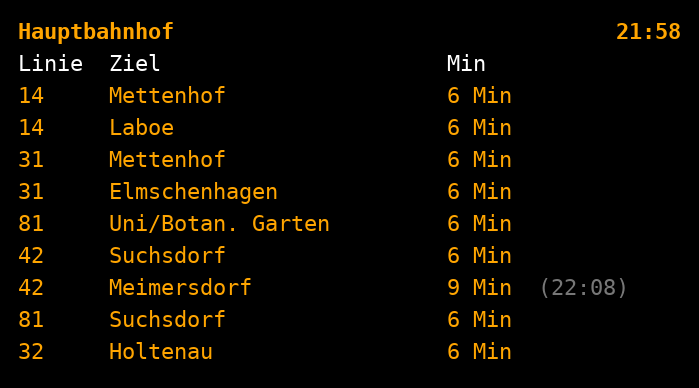
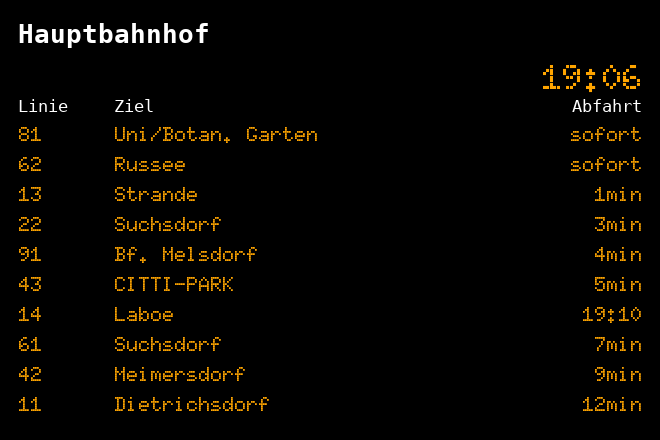
Doku aufgeraeumt: README strukturiert (Inhalt/Voraussetzungen/Installation/Konfig/PWA/API/Hinweise), neues Vorschaubild im aktuellen DFI-Look

diff --git a/README.md b/README.md
@@ -1,31 +1,44 @@
-# conky-kvg – KVG-Echtzeitabfahrten als Conky-Widget
+# conky-kvg – KVG-Echtzeitabfahrten
 
-Zeigt die nächsten Busabfahrten einer KVG-Haltestelle in Kiel als Desktop-Widget (Conky) an –
-optisch angelehnt an die elektronischen Anzeigetafeln (DFI) an den Haltestellen:
-schwarzer (halbtransparenter) Hintergrund, Spalten `Linie | Ziel | Min`,
-Liniennummern und Minuten in Amber/Orange, Uhrzeit oben rechts.
-
-Datenquelle: inoffizielle JSON-API der KVG („internetservice“), siehe [docs/api-endpunkte.md](docs/api-endpunkte.md).
+Nächste Busabfahrten einer KVG-Haltestelle in Kiel im DFI-Look – als **Conky-Widget** (Linux-Desktop) und als **PWA** (Android/Handy). Datenquelle: inoffizielle KVG-„internetservice“-JSON-API, siehe [docs/api-endpunkte.md](docs/api-endpunkte.md).
 
 ![Vorschau](docs/preview.png)
 
+**Features:** Echtzeit-Abfahrten (Echtzeit-Prognose, `sofort` bei 0 min, Soll-Uhrzeit bei reinen Fahrplandaten), Verspätungsanzeige, Lauftext-Fußzeile (`generalAlerts`), Doto-Black-Schrift, halbtransparentes Fenster ohne Flackern, konfigurierbare Haltestelle ohne Neustart, 30-s-API-Cache.
+
+## Inhalt
+
+```
+conky/conky.conf            Conky-Konfiguration (Farben, Transparenz, Fonts, Layout)
+conky/kvg.lua               Lua: API-Abruf (Cache 30 s), Formatierung, Lauftext
+conky/kvg-stop.conf.example Haltestelle konfigurieren (STOP/NAME)
+bin/kvg-abfahrten.sh        Fallback ohne Lua (curl+jq+awk)
+app/widget.html             PWA fürs Handy (gleiches Design, lokale Fonts, Suche)
+app/manifest.webmanifest    PWA-Manifest
+app/fonts/                  Doto (woff2) + DejaVu Sans Mono (ttf), lokal gebundelt
+app/icon-512.png            PWA-Icon
+docs/api-endpunkte.md       API-Referenz (Endpunkte, JSON-Felder, Koordinaten)
+docs/haltestellen-kiel.csv  488 Haltestellen im Kieler Stadtgebiet
+docs/preview.png            Vorschaubild
+```
+
 ## Voraussetzungen
 
-- Ubuntu/Debian: `sudo apt install conky-all jq curl` (`conky-all` enthält die nötige Lua-Unterstützung; prüfen mit `conky -v | grep -i lua`)
+- Ubuntu/Debian: `sudo apt install conky-all jq curl` (`conky-all` enthält Lua; prüfen: `conky -v | grep -i lua`)
 - X11-Sitzung (bei Wayland am Login „Ubuntu on Xorg“ wählen)
+- Doto installiert (`fc-list | grep -i doto`; als „Doto Black“ alternativ `${font 'Doto Black':size=…}`)
 
-## Installation
+## Installation (Conky)
 
 ```bash
 mkdir -p ~/.config/conky ~/.local/bin
 cp conky/conky.conf   ~/.config/conky/conky.conf
 cp conky/kvg.lua      ~/.config/conky/kvg.lua
-cp conky/kvg-stop.conf.example ~/.config/conky/kvg-stop.conf   # Haltestelle konfigurieren
+cp conky/kvg-stop.conf.example ~/.config/conky/kvg-stop.conf
 cp bin/kvg-abfahrten.sh ~/.local/bin/kvg-abfahrten.sh   # nur Fallback ohne Lua
 chmod +x ~/.local/bin/kvg-abfahrten.sh
+conky        # starten; neu laden: killall conky && conky
 ```
-
-Conky starten: `conky` – Konfiguration testen/neu laden mit `killall conky && conky`.
 
 ## Autostart
 
@@ -41,73 +54,58 @@ X-GNOME-Autostart-enabled=true
 EOF
 ```
 
-Alternativ als systemd-Userdienst: `~/.config/systemd/user/conky.service` mit
-`ExecStart=/usr/bin/conky`, dann `systemctl --user enable --now conky.service`.
+Alternativ systemd-Userdienst: `~/.config/systemd/user/conky.service` mit `ExecStart=/usr/bin/conky`, dann `systemctl --user enable --now conky.service`.
 
-## Haltestelle wechseln
+## Conky-Widget konfigurieren
 
-Über die Datei **`~/.config/conky/kvg-stop.conf`** (wird beim Start aus `conky/kvg-stop.conf.example` angelegt):
+### Haltestelle wechseln
+
+Über `~/.config/conky/kvg-stop.conf` (aus `conky/kvg-stop.conf.example` kopiert):
 
 ```
 STOP=2731
 NAME=Petruskirche
 ```
 
-- `STOP` = vierstellige KVG-Haltestellennummer, `NAME` = Titel oben im Widget.
-- Änderung wird **ohne Conky-Neustart** übernommen (spätestens nach 30 s, wenn der API-Cache neu lädt; der Titel sofort beim nächsten Tick).
-- Beide Varianten (Lua und awk-Fallback) lesen dieselbe Datei; beim Fallback ohne Lua bleibt nur der Titel statisch in `conky.text`.
+`STOP` = vierstellige KVG-Haltestellennummer, `NAME` = Titel (weiß, size 13). Ohne Conky-Neustart wirksam (Titel sofort, Daten spätestens nach 30 s Cache). Standard: Hauptbahnhof `2387`. Alle Nummern: [docs/haltestellen-kiel.csv](docs/haltestellen-kiel.csv) (Spalten `haltestellennummer,name,interne_id,kategorie,latitude,longitude`; Beispiele: `2387` Hbf, `2731` Petruskirche, `3001` Hbf/Kaistraße).
 
-Standard ist der **Hauptbahnhof (Haltestellennummer `2387`)**.
+### Design
 
-Alle Haltestellennummern für das Kieler Stadtgebiet (488 Haltestellen, Stand der Abfrage siehe CSV):
-[docs/haltestellen-kiel.csv](docs/haltestellen-kiel.csv) – Spalten:
-`haltestellennummer,name,interne_id,kategorie,latitude,longitude`.
-Beispiele: `2387` Hauptbahnhof, `2731` Petruskirche, `3001` Hbf/Kaistraße.
+- **Farben:** `color1` = Amber (`FFA500`), `default_color` = Weiß, `color2` = Grau – in `conky.conf`.
+- **Transparenz:** `own_window_argb_value` (255 = deckend, aktuell 80).
+- **Flackern:** `double_buffer = true` ist gesetzt (zeichnet off-screen, tauscht atomar). Sonst: Compositor an, `update_interval` erhöhen (z. B. `5.0`).
+- **Fonts:** Uhr + Tabelle in Doto Black via `${font Doto:size=…:weight=900}` in `conky.text`; Titel in DejaVu Sans Mono. Doto ist monospaced → die Zeichen-basierten Spaltenbreiten (`pad`/`lpad` in `kvg.lua`) bleiben gültig. Falls abgeschnitten: `minimum_width` anpassen (aktuell 260, damit die Uhr exakt über „Abfahrt“ steht).
+- **DFI-Layout:** Uhr eigene Zeile oben rechts über der Spalte „Abfahrt“ (`${alignr}`); Abfahrt rechtsbündig (`lpad(…, 8)`), Format `6min`, bei `0min` → `sofort`, bei `status=PLANNED` die Soll-Uhrzeit (`8:35`); bei Verspätung (`actualTime ≠ plannedTime`) steht die Ist-Uhrzeit in der Abfahrt-Spalte. Lauftext-Fußzeile aus `generalAlerts` (Conky `${scroll 39 …}`, mehrere Meldungen mit ` +++ ` getrennt).
+- **Mehr/weniger Zeilen / Linien filtern:** `.actual[:20]` bzw. `select(.patternText == "6" …)` im jq-Filter in `kvg.lua`.
+- **Fallback ohne Lua** (`conky-std`): in `conky.text` die `${lua_parse …}`-Zeile ersetzen durch `${execi 30 /home/DEINUSER/.local/bin/kvg-abfahrten.sh}` (liest ebenfalls `kvg-stop.conf`; Titel dann manuell in `conky.text`).
 
-Die Liste kann jederzeit neu erzeugt werden (Koordinaten = Grad × 3.600.000, Bounding-Box Kiel
-ca. lat 54.26–54.42, lon 9.96–10.26):
+## Android / Smartphone (PWA)
+
+Conky läuft nur unter X11 – auf dem Handy nimmst Du die Web-App in `app/widget.html` (gleiche API und gleiches Design; CORS erlaubt: `Access-Control-Allow-Origin: *`; Fonts lokal in `app/fonts/`, kein Google-Request; Lizenzen: Doto = SIL OFL 1.1, DejaVu = Bitstream-Vera).
+
+1. **GitHub Pages:** Repo → *Settings → Pages → Branch `main`, Folder `/ (root)`* → Save.
+2. **Handy:** Chrome öffnen, z. B. `https://kaffeeringe.github.io/conky-kvg/app/widget.html?stop=2731&name=Petruskirche`, Menü (⋮) → „Zum Startbildschirm hinzufügen“ → Vollbild-App, aktualisiert alle 30 s.
+3. **Haltestelle wechseln (ohne ID):** Suchfeld oben (Autovervollständigung aus `docs/haltestellen-kiel.csv`, nur Namen, keine Nummern; Schrift DejaVu Sans Mono; per ☰/✕-Button rechts oben ausblendbar → Original-Look, gemerkt in `localStorage`). Auswahl landet in `localStorage` und in der URL (`?stop=…&name=…`) – Priorität: URL > localStorage > Default (Hbf `2387`). Zum Teilen einfach URL mit Parametern.
+
+Alternativen: KWGT/Kustom-Widget (`$wg(url, jsonpath)$`), Termux + Termux:Widget (führt `bin/kvg-abfahrten.sh` aus), fertige Apps (NAH.SH-App, mobil.kielregion.de als PWA, kiel-live).
+
+## API-Referenz & Haltestellenliste
+
+- Endpunkte, JSON-Felder, Koordinaten-Skalierung (Grad × 3.600.000): [docs/api-endpunkte.md](docs/api-endpunkte.md)
+- Haltestellenliste neu erzeugen (Bounding-Box Kiel ca. lat 54.26–54.42, lon 9.96–10.26):
 
 ```bash
 curl -s "https://kvg-internetservice-proxy.p.networkteam.com/internetservice/geoserviceDispatcher/services/stopinfo/stops?top=195912000&bottom=195336000&left=35856000&right=36936000" \
   | jq -r '.stops[] | [.shortName, .name, .id, .category, (.latitude/3600000), (.longitude/3600000)] | @csv'
 ```
 
-## Android / Smartphone (PWA)
-
-Conky läuft nur unter Linux/X11 – auf dem Handy nimmst Du stattdessen die Web-App in `app/widget.html` (gleiche API, gleiches Design; CORS ist erlaubt, die API antwortet mit `Access-Control-Allow-Origin: *`).
-
-1. **GitHub Pages aktivieren:** Repo → *Settings → Pages → Branch `main`, Folder `/ (root)`* → Save. Die App liegt dann unter `https://kaffeeringe.github.io/conky-kvg/app/widget.html`.
-
-   **Schriftarten lokal gebundelt:** die PWA lädt nichts mehr von Google – in `app/fonts/` liegen `Doto-var-latin.woff2` (Doto, variable wght 100–900, latin, SIL OFL 1.1) sowie `DejaVuSansMono.ttf` / `DejaVuSansMono-Bold.ttf` (DejaVu Sans Mono, Bitstream-Vera-Lizenz) und werden per `@font-face` in `app/widget.html` eingebunden. Titel/Kopf (`#name`, `thead`) nutzen DejaVu Sans Mono, Datentabelle + Uhr Doto.
-2. **Auf dem Handy:** URL im Chrome öffnen, z. B. `https://kaffeeringe.github.io/conky-kvg/app/widget.html?stop=2731&name=Petruskirche`, dann Menü (⋮) → **„Zum Startbildschirm hinzufügen“** → Icon auf dem Homescreen, öffnet als Vollbild-App (`display: standalone`) und aktualisiert alle 30 s.
-3. **Haltestelle wechseln (ohne ID zu kennen):** in der PWA gibt es ein Suchfeld über der Anzeige – Autovervollständigung aus `docs/haltestellen-kiel.csv` (488 Haltestellen). Auswahl wird in `localStorage` gespeichert, in die URL gespiegelt (`?stop=…&name=…`) und beim nächsten Öffnen wiederhergestellt. Priorität: URL-Parameter > localStorage > Default (Hbf `2387`). Zum Teilen/Lesezeichen einfach die URL mit Parametern verwenden. Die Vorschläge zeigen nur den Namen (keine Nummer); das Suchfeld läuft in DejaVu Sans Mono und lässt sich über den ☰/✕-Button rechts oben ausblenden (Original-Look, wird in `localStorage` gemerkt). Tabellen-Header sind unten ausgerichtet (`th { vertical-align: bottom }`), damit „Linie/Ziel/Abfahrt“ auf einer Höhe sitzen.
-
-Alternativen: **KWGT/Kustom**-Widget (HTTP-Abruf direkt aus dem Widget via `$wg(url, jsonpath)$`), **Termux + Termux:Widget** (führt `bin/kvg-abfahrten.sh` direkt aus, Shortcut auf den Homescreen), oder fertige Apps (NAH.SH-App, mobil.kielregion.de als PWA, kiel-live).
-
-## Anzeige anpassen
-
-- **Schriftart Doto Black (Uhr + Bus-Tabelle):** in `conky.text` Uhr und Abfahrtsblock mit `${font Doto:size=16:weight=900}…${font}` bzw. `${font Doto:size=12:weight=900}…${font}` einklammern (falls fontconfig den Stil als eigenen Family-Namen führt, geht auch `${font 'Doto Black':size=…}`; prüfen mit `fc-list | grep -i doto`). Doto ist monospaced – die Spaltenbreiten in Zeichen (`pad(…)`) bleiben dadurch gültig. In der PWA (`app/widget.html`) wird Doto (wght 900) über Google Fonts als Standardschrift geladen. Falls die Tabelle am rechten Rand abgeschnitten wird: `minimum_width` in `conky.conf` erhöhen (Doto-Glyphen können breiter sein als DejaVu).
-- **Transparenz:** in `conky.conf` `own_window_argb_value` ändern (255 = deckend, 180 = leicht transparent).
-- **Farben:** `color1` (Amber, Standard `FFA500`), `default_color` (Weiß), `color2` (grau für Hinweise/Fehler).
-- **DFI-Layout (an die echte Tafel angelehnt):** Uhr steht in eigener Zeile oben rechts über der Spalte „Abfahrt“ (in `conky.conf` per `${alignr}`; dafür `minimum_width` klein halten, damit die Tabellenbreite das Fenster definiert). Abfahrt-Spalte rechtsbündig (`lpad(…, 8)` in `kvg.lua`, `text-align: right` in der PWA), Format `6min` (klein, ohne Leerzeichen), bei `0min` wird `sofort` angezeigt; ohne Echtzeit (`status=PLANNED`) steht dort die Soll-Uhrzeit (`8:35`). Verspätungen: im Conky-Widget steht bei Verspätung statt der Minuten die Ist-Uhrzeit in der Abfahrt-Spalte (dreispaltig, kein „Ist“-Header); in der PWA gibt es keine Ist-Spalte mehr (dreispaltig wie das Conky-Widget), und die Uhr (Doto, amber) sitzt im „Abfahrt“-Kopf direkt über der Spalte. Der Haltestellen-Titel im Conky ist weiß und 2 px größer (size 13). In der PWA: `th/td:last-child { text-align: right }` und `sofort` im JS.
-- **Lauftext-Fußzeile:** `generalAlerts` aus der API werden als scrollende Fußzeile angezeigt (Conky: `${scroll 39 …}` aus `kvg.lua`; PWA: CSS-Marquee in `app/widget.html`). Mehrere Meldungen werden mit ` +++ ` getrennt. Erscheint nur, wenn Meldungen vorliegen.
-- **Mehr/weniger Zeilen:** in `kvg.lua` bzw. `kvg-abfahrten.sh` das `.actual[:20]` anpassen.
-- **Linien filtern:** im jq-Filter z. B. `select(.patternText == "6" or .patternText == "91")` ergänzen.
-- **Spaltenbreite:** `pad(…, 5)` / `pad(…, 24)` in `kvg.lua` bzw. `%-5s` / `%-24s` in awk – Überschrift und Datenzeilen müssen identische Breiten haben. `pad()` zählt sichtbare Zeichen (UTF-8), damit Umlaute (z. B. „Reventloubrücke“) die Spalte nicht verschieben.
-- **Fallback ohne Lua** (`conky-std`): in `conky.text` statt `${lua_parse kvg_abfahrten}` nutzen:
-  ```
-  ${color1}Hauptbahnhof${color}${alignr}${color1}${time %H:%M}${color}   # Titel hier manuell anpassen
-  ${color1}${execi 30 /home/DEINUSER/.local/bin/kvg-abfahrten.sh}${color}
-  ```
-
 ## Hinweise
 
-- **Flackern:** in `conky.conf` ist `double_buffer = true` gesetzt – Conky zeichnet dann zuerst off-screen und tauscht das Bild atomar aus, statt sichtbar neu zu malen. Falls es trotzdem flackert: Compositor aktivieren (GNOME/KDE: standardmäßig an) bzw. `update_interval` erhöhen (z. B. `5.0`; die Uhr oben aktualiert sich dann seltener, die API-Daten sowieso nur alle 30 s via Cache).
-- Die API ist **inoffiziell** (kein API-Key, keine Doku, kann sich ändern). Abruf max. alle 30 s – in `kvg.lua` ist das bereits eingebaut (Caching über `os.time()`, `CACHE_SECONDS = 30`); die awk-Fallback-Variante nutzt `execi 30`.
-- `mixedTime` enthält den Platzhalter `%UNIT_MIN%` (→ „Min“ ersetzen); bei `status=PLANNED` steht dort stattdessen die Uhrzeit.
-- Verspätung: `actualTime` weicht von `plannedTime` ab – das Widget zeigt die Ist-Uhrzeit dann grau in Klammern an.
-- Am Hauptbahnhof fahren viele Linien takt-synchron zur selben Minute (Taktknoten) – gleiche Minutenangaben in mehreren Zeilen sind korrekt, siehe dazu mehr Zeilen via `.actual[:20]`.
+- Die API ist **inoffiziell** (kein Key, keine Doku, kann sich ändern). Abruf max. alle 30 s – in `kvg.lua` eingebaut (`CACHE_SECONDS = 30`, Cache über `os.time()`); Fallback nutzt `execi 30`.
+- `mixedTime` enthält `" %UNIT_MIN%"` (mit Leerzeichen) → wird zu `min`/`sofort` verarbeitet; bei `status=PLANNED` steht dort die Soll-Uhrzeit.
+- Am Hauptbahnhof fahren viele Linien takt-synchron (Taktknoten) – gleiche Minuten in mehreren Zeilen sind korrekt.
+- Lua-Fehler siehst Du im Terminal (`conky` starten statt killall) auf stderr, z. B. `kvg.lua:…: syntax error`.
 
 ## Lizenz
 
-[GPL-3.0](LICENSE) (vom Repo-Initialcommit übernommen)
+[GPL-3.0](LICENSE)
